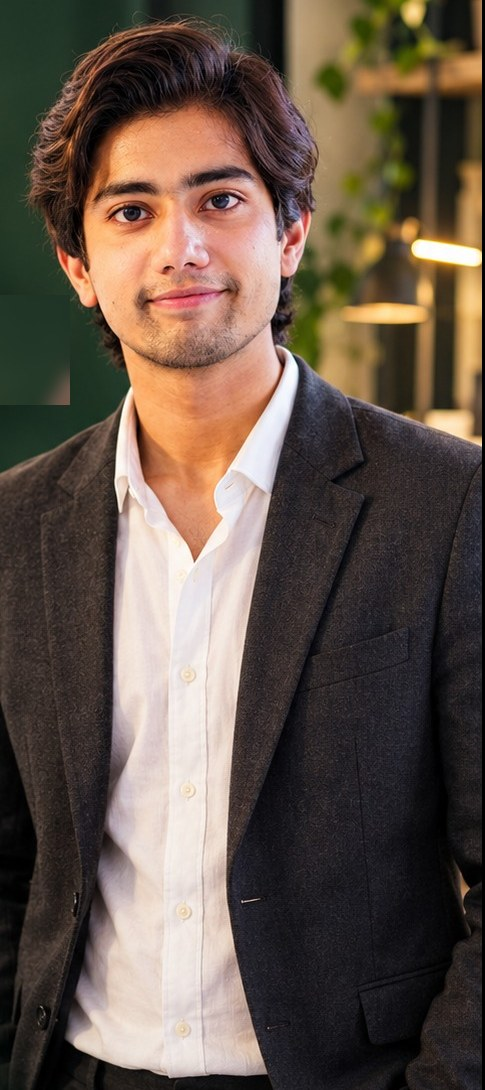
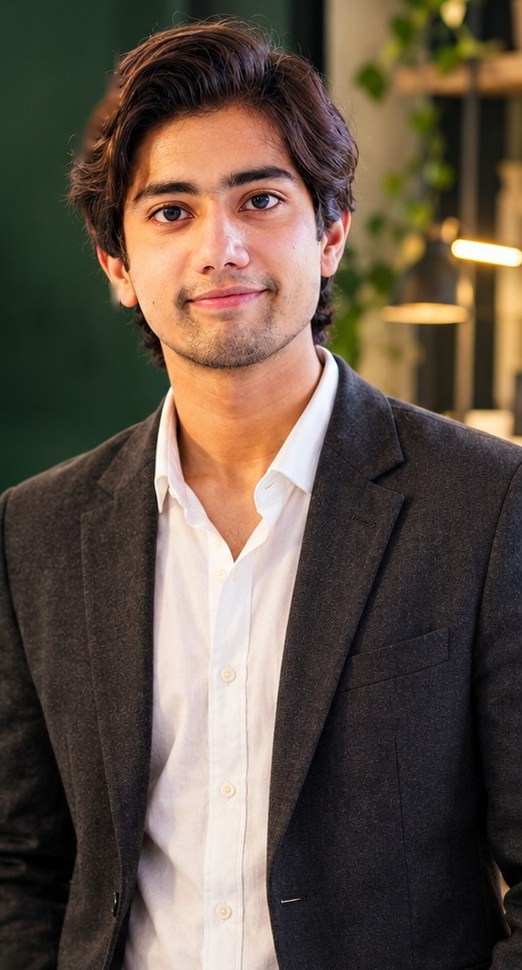
Founder portrait: full crop, headline text removed
Claude-Session: https://claude.ai/code/session_01PoPjZCRvwGvdFbpc5E93KY

diff --git a/preview.html b/preview.html
@@ -110,8 +110,8 @@ header{position:sticky;top:env(safe-area-inset-top,0px);z-index:20;background:rg
 /* founder */
 .founder{background:var(--bg-2);border-block:1px solid var(--line);overflow:hidden}
 .founder-grid{display:grid;grid-template-columns:.9fr 1.1fr;gap:48px;align-items:center}
-.portrait{position:relative;max-width:340px;justify-self:center;width:100%}
-.portrait img{border-radius:20px;aspect-ratio:1/1;object-fit:cover;object-position:60% 15%;width:100%;position:relative}
+.portrait{position:relative;max-width:300px;justify-self:center;width:100%}
+.portrait img{border-radius:20px;aspect-ratio:522/970;object-fit:cover;object-position:center top;width:100%;position:relative}
 .portrait .shape.circle{width:200px;height:200px;background:var(--orange);left:-50px;bottom:-40px;opacity:.9}
 .portrait .shape.sq{width:120px;height:120px;background:var(--blue);right:-30px;top:-30px;transform:rotate(10deg)}
 .portrait .shape.tri{right:10px;bottom:-40px;transform:scale(.45);border-bottom-color:var(--green)}

diff --git a/public/index.html b/public/index.html
@@ -141,8 +141,8 @@ header{position:sticky;top:env(safe-area-inset-top,0px);z-index:20;background:rg
 /* founder */
 .founder{background:var(--bg-2);border-block:1px solid var(--line);overflow:hidden}
 .founder-grid{display:grid;grid-template-columns:.9fr 1.1fr;gap:48px;align-items:center}
-.portrait{position:relative;max-width:340px;justify-self:center;width:100%}
-.portrait img{border-radius:20px;aspect-ratio:1/1;object-fit:cover;object-position:60% 15%;width:100%;position:relative}
+.portrait{position:relative;max-width:300px;justify-self:center;width:100%}
+.portrait img{border-radius:20px;aspect-ratio:522/970;object-fit:cover;object-position:center top;width:100%;position:relative}
 .portrait .shape.circle{width:200px;height:200px;background:var(--orange);left:-50px;bottom:-40px;opacity:.9}
 .portrait .shape.sq{width:120px;height:120px;background:var(--blue);right:-30px;top:-30px;transform:rotate(10deg)}
 .portrait .shape.tri{right:10px;bottom:-40px;transform:scale(.45);border-bottom-color:var(--green)}
